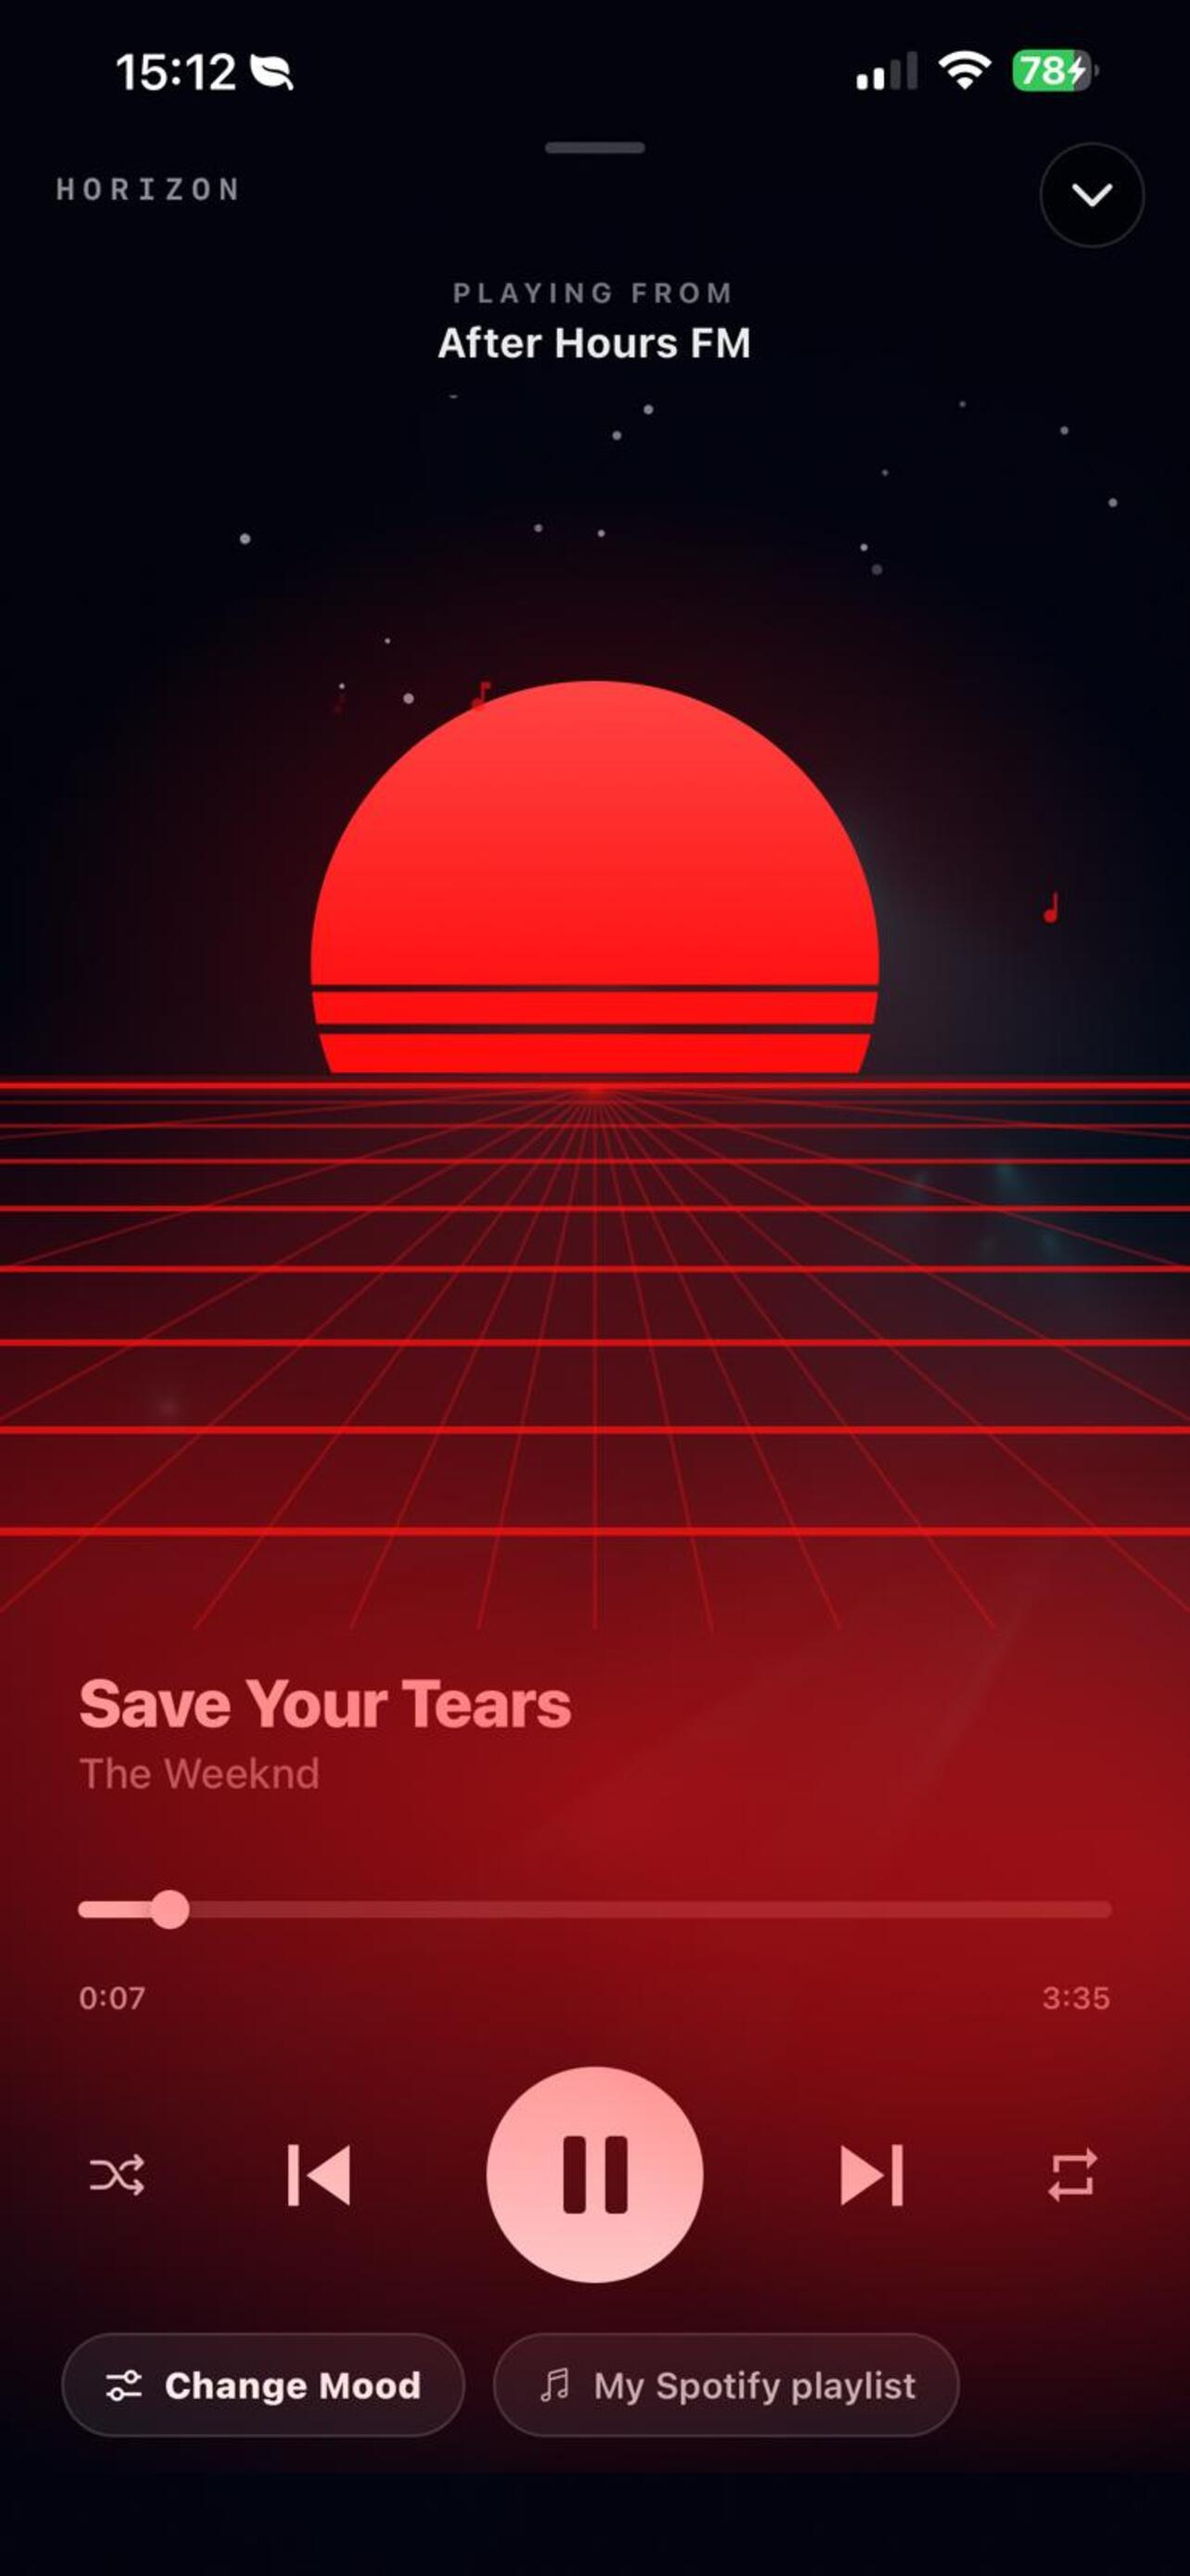
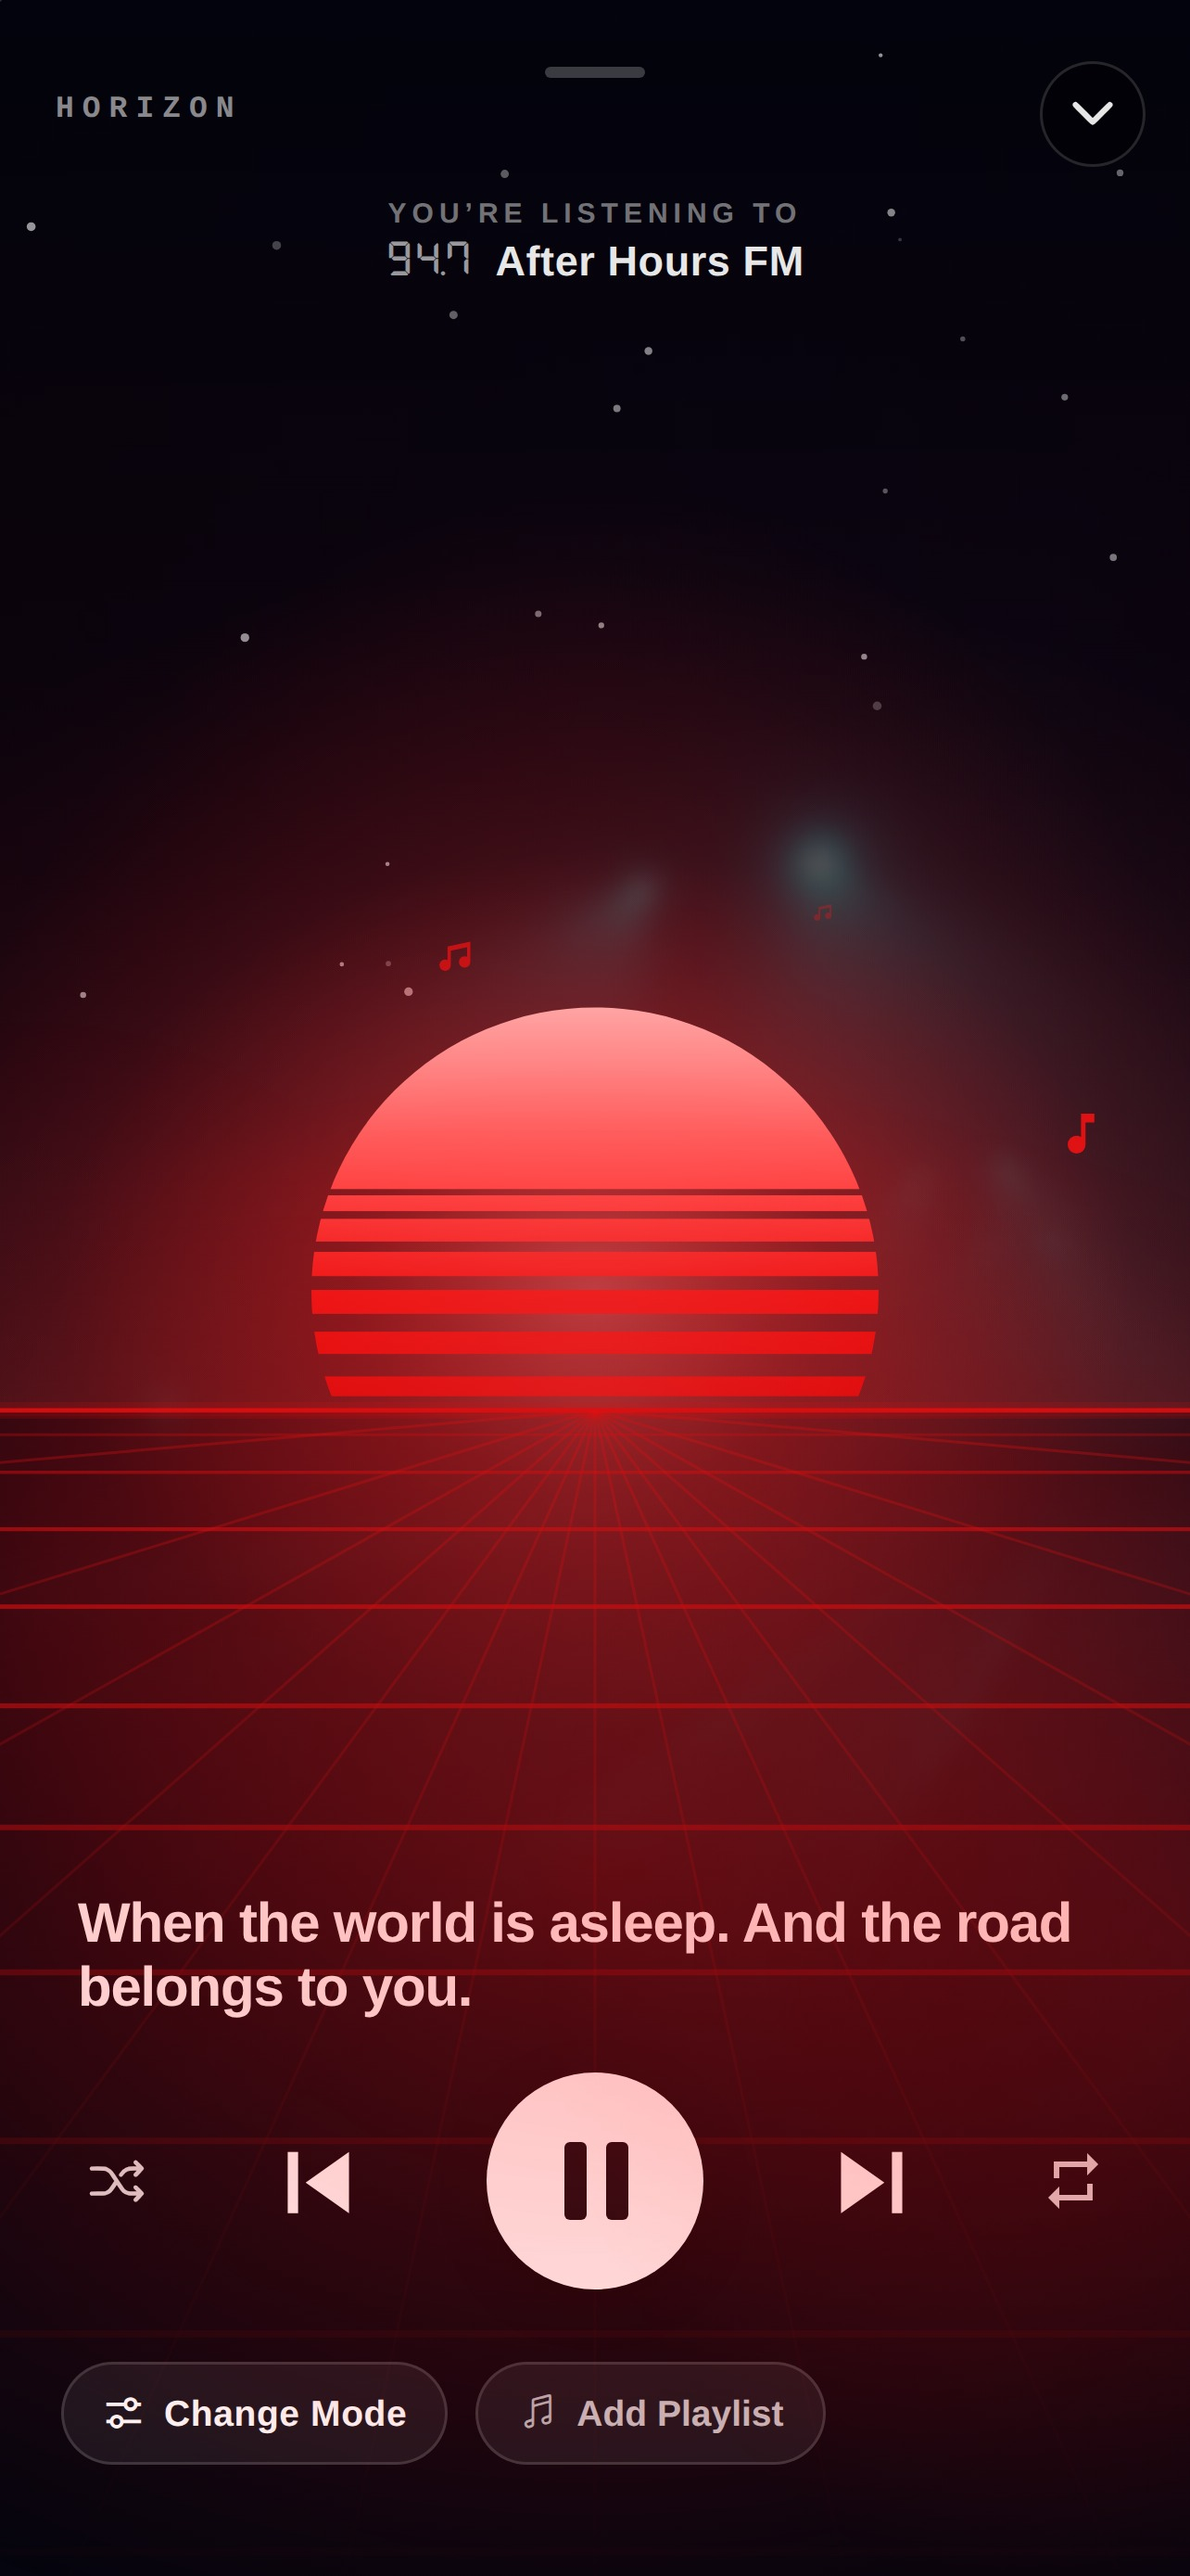
Fresh App Store screenshots, and the mode tag on Cassette and Vinyl
The listing's screenshots were shot on 23 July and had gone stale. One of
them advertises Sound Waves, a mode retired and deleted on 25 July, so the
store was selling a feature that no longer exists. The home and stations
shots predate the receiver rebuild, and Mirror Ball and CD were not on the
listing at all.

Regenerated all six at 1284x2778 from the real build. With no music
connected there is no track, so every mode falls back to the station's own
tagline — no song title, no artist, no playlist name and no album art
anywhere in the set, which takes the rights question off the table and
reads better than a song title would.

Also adds the top-left mode tag to Cassette and Vinyl. Six of the eight
modes had one and those two never did, which would have shown as an
inconsistency across the set.

Claude-Session: https://claude.ai/code/session_01QfXMCYhSHowDeZKzYgKa2H

diff --git a/src/components/CassetteMode.tsx b/src/components/CassetteMode.tsx
@@ -1020,6 +1020,11 @@ export function CassetteFullscreen({ visible, onClose, stationId }: { visible: b
           <View style={{ width: 36, height: 4, borderRadius: 2, backgroundColor: 'rgba(255,255,255,0.22)' }} />
         </View>
 
+        {/* Mode name — top-left corner tag, same treatment as every other mode */}
+        <View style={{ position: 'absolute', top: topPad + 14, left: 20, zIndex: 10 }} pointerEvents="none">
+          <Text style={{ color: 'rgba(255,255,255,0.55)', fontSize: 11, fontWeight: '700', letterSpacing: 3, fontFamily: Fonts.mono }}>CASSETTE</Text>
+        </View>
+
         <View style={{ flex: 1, paddingTop: topPad + 52, paddingBottom: bottomPad }}>
 
           {/* Header — small top-center, Spotify style */}

diff --git a/src/components/VinylMode.tsx b/src/components/VinylMode.tsx
@@ -1198,6 +1198,13 @@ export function VinylFullscreen({ visible, onClose, stationId }: { visible: bool
         </View>
         )}
 
+        {/* Mode name — top-left corner tag, same treatment as every other mode */}
+        {!isLandscape && (
+        <View style={{ position: 'absolute', top: topPad + 14, left: 20, zIndex: 10 }} pointerEvents="none">
+          <Text style={{ color: 'rgba(255,255,255,0.55)', fontSize: 11, fontWeight: '700', letterSpacing: 3, fontFamily: Fonts.mono }}>VINYL</Text>
+        </View>
+        )}
+
         <View style={{ flex: 1, paddingTop: isLandscape ? 8 : topPad + 52, paddingBottom: isLandscape ? 8 : bottomPad, alignItems: 'center' }}>
 
           {!isLandscape && (

diff --git a/AGENTS.md b/AGENTS.md
@@ -133,6 +133,10 @@ The owner does not code — describe changes in plain English, Claude implements
   FOUR THINGS THE OFFLINE RENDER CAUGHT, all the same class of bug — a block sized against an ASSUMPTION rather than a measurement: (1) the ticket's dial and station name shared a row with the name budgeted against a fixed 340px, but "103.5 FM" is half as wide again as "810 AM" in dot-matrix, so "Mountain Pass FM" ran straight through its own dial number — they get a row each now, which cannot collide whatever the widths; (2) the ticket's and the receiver's windows were sized off the panel's WIDTH, making them 592 and 639 tall, which pushed the counterfoil through the barcode and the song readout through the dial — both are now sized off their own HEIGHT and the hero is scaled to fit, centred; (3) a taller pin gave its extra 270px to whatever gap happened to be at the bottom, so the ticket opened a dead band above the barcode — the extra now goes into the window (0.62/0.60 of it) and into Minimal's hero scale, never into a gap; (4) Minimal at 82pt ellipsised a song title mid-word, so it is 72pt over three lines.
   IN-APP: the sheet grew a scrolling row of style chips and a Card 4:5 / Pin 2:3 toggle. TRAP: the chip ScrollView must be given a REAL width (`winW - 32`) — inside a centred column with no width of its own it sizes to its content, so five chips ran off both edges instead of scrolling. Checked in the real web build at 393x852 and 375x667, all five styles plus both formats, zero page errors; and offline across Night Run, Sunset, Mountain Pass (the pale station), a custom station with no photograph, and the no-track fallback. Poster skips its credit block when there is no live track, because the title falls back to the tagline it already prints above.
   STILL SVG PRIMITIVES ONLY, so this is a normal OTA — no view-shot, no new dependency. `heroTransform()`/`<G transform="translate(...) scale(...)">` is how a style repositions the hero; react-native-svg 15 parses string transforms (extractTransform.ts:174), and the harness emits them as plain SVG attributes so both paths agree. HARNESS: scratchpad/share/render.js now takes a job — `styles` (every design, one station), `pins` (the same at 2:3), `modes` (every mode in one style, `STYLE=` env) — and transpiles ShareCardStyles' own source, so it tests the shipped code. Run it with `NODE_PATH=/home/user/CruiseFM/node_modules`.
+- APP STORE SCREENSHOTS REGENERATED 2026-08-03, AND THE MODE LABEL FIX THAT WENT WITH THEM: the owner: "it's getting hard to do these screenshots while being weary of the playlist names and marketing. The modes won't show unless I click a song most of the time." Both halves are real. The old `screenshots-appstore/` set was shot 23.07 and had gone badly stale — `05-soundwaves-raindrive.jpg` advertises SOUND WAVES, a mode retired and deleted on 25.07, so the live listing was selling a feature that no longer exists; the home and stations shots predate the receiver rebuild; and Mirror Ball and CD, the two best modes, were not on the listing at all. Regenerated all six from the real web build at 428x926 logical / deviceScaleFactor 3 = **1284x2778**, Apple's 6.5" slot and the same size as the old set. HARNESS: scratchpad/store/shot.mjs (`node shot.mjs "<station>" "<Mode>" out.png`, or `stations` for the dial page).
+  THE POINT OF DOING IT THIS WAY: with no Spotify connection there is no track, so every mode falls back to the STATION'S OWN TAGLINE — no song title, no artist, no playlist name, no album art anywhere in the set, which removes the whole rights/marketing worry at source and reads better than a song title would. Set: Mirror Ball/Downtown, Horizon/After Hours, the Stations dial, Cassette/Daylight, Tuner/Night Run, Vinyl/Coastal.
+  TWO TRAPS IN THE HARNESS, both cost a round: (1) **Start Drive already leaves the mode PLAYING** — pressing the transport to "start" it PAUSES it, and a paused Mirror Ball is deliberately dark and unlit (28.07), so the first set had a dead grey ball. Touch nothing. (2) The Mirror Ball rests its chrome after a few untouched seconds, so a wake tap is needed — but `(214, 200)` is NOT neutral: on Vinyl and CD that lands on the record/disc, which toggles playback, and it paused the deck. Tap `(40, 118)`: above every mode's object, clear of the chevron and the grabber. Also wait ~13s before shooting so the "visuals only for now" hint self-clears.
+  SHIPPED WITH IT: `CASSETTE` and `VINYL` mode-name tags, top-left, matching the other six. Six of the eight modes had one and those two never did (Equalizer's is inline rather than via `fs.modeLabel`, which is why a grep for the shared style under-counts it) — a plain inconsistency, and it would have shown across the store set.
 - HORIZON DETAIL PASS 2026-08-03 (OTA) — owner's device screenshots, and the flat sun had a CAUSE, not a tuning problem: `hzSun` fed the station's three eqColors straight into a top-to-bottom gradient, and several stations have almost no internal contrast in that ramp. After Hours is `#FF4444 / #FF1111 / #FF0000` — three near-identical reds — so the sun painted as a FLAT red disc; Mountain Pass (three whites) painted flat white. A station's eq ramp is tuned for equalizer bars and mirror facets, and is the wrong input for a big smooth gradient. FIX: `sunRamp(eq)` DERIVES five stops — a hot near-white top (`mixHex(eq[0], '#FFFFFF', 0.62)`), the station's own three through the middle, and a deep bottom mixed 0.55 toward `#140F2A`. Deepening toward a very dark INDIGO rather than black is load-bearing twice over: black flattens into a silhouette, and the cool bias is what keeps the all-white station reading as ice instead of dirt. Checked on After Hours (hot red), Mountain Pass (silver/ice over fog), Sunset (gold→coral→pink) and Night Run (blue, landscape).
   THE SLATS were the other half, and also structural: `SUN_CUTS` spaced six cuts in flat viewBox units downward from the sun's own CENTRE, but the sun is masked at the horizon and its centre sits only 0.42 of a radius above it — so "from the centre down" is the bottom THIRD of the visible disc, and three of the six cuts landed under the horizon and were never drawn. That is exactly the owner's screenshot: a solid dome with two thin slots near the bottom. `sunCuts(cy, r, horizon)` now spans from `cy - r*0.36` (the middle of the VISIBLE disc) to just above the horizon, thickening `r*0.022 → r*0.097` on a `f^1.5` curve, everything a fraction of the radius so it holds at any size. Also added: a two-stage bloom (a tight hot core AND a wide soft haze — one gradient cannot do both, widen it and the core washes out), a sky that warms toward the horizon instead of staying dead black, and the sun's light spilling onto the grid.
   THE GRID WAS STRIKING THROUGH THE TYPE — song title, seek bar and transport all sat on red stripes. Cause: the backdrop's scrim (`LinearGradient` at the top of the tree) sits UNDER the full-bleed scene layer, so it protects nothing; the scene is deliberately drawn behind the controls (31.07) and there was nothing between it and the text. Fixed in two places rather than one, because a scrim alone would have had to be heavy enough to kill the scene the owner likes: (a) the rolling lines now FADE BACK OUT in the near foreground (`near = (q-0.34)/0.66`, opacity × `1 - near²·0.86`) — their opacity grew with `q`, which is right for perspective and wrong for legibility, so they were brightest exactly where the words are; the rays take a `userSpaceOnUse` gradient stroke doing the same thing with one def for all 15. (b) a gentle second scrim ABOVE the scene, portrait only, starting at nothing at 46% of the screen. Landscape needs none — the docked panel carries its own background.
